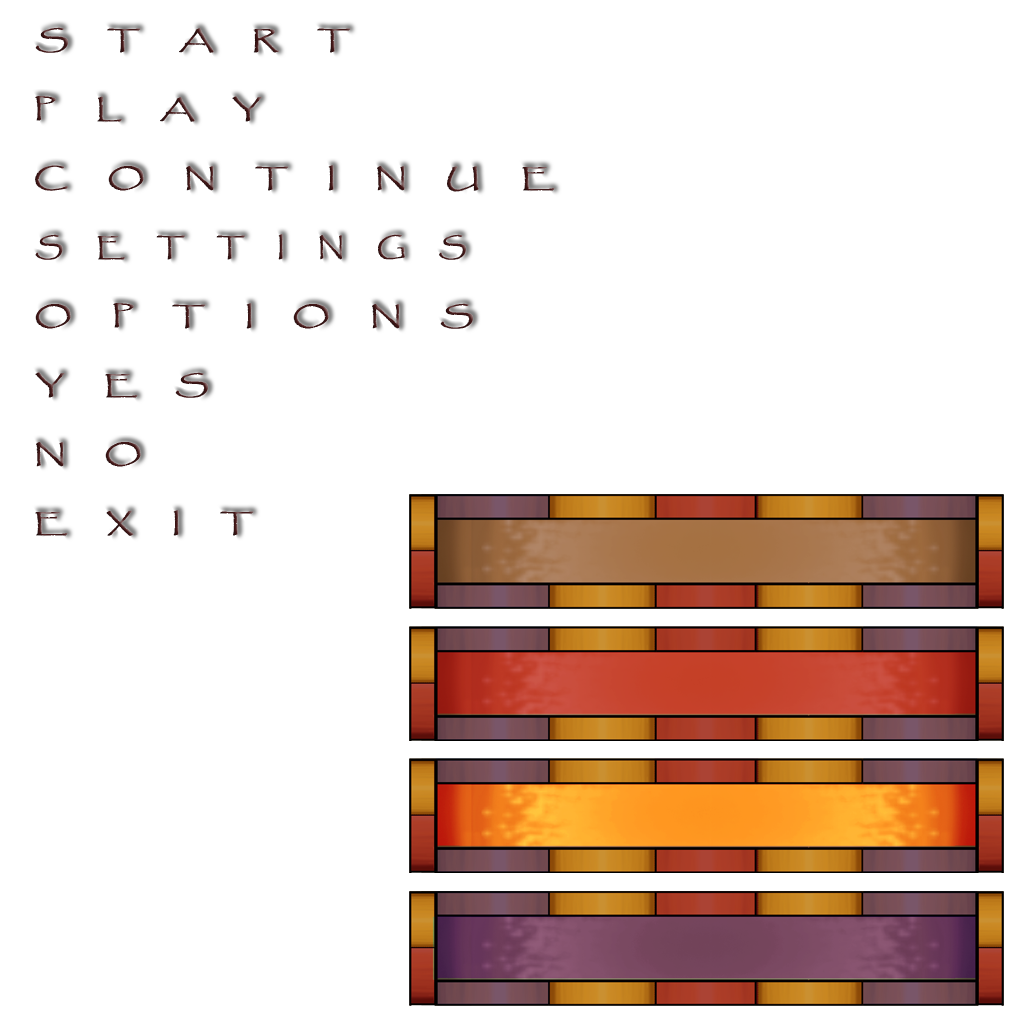
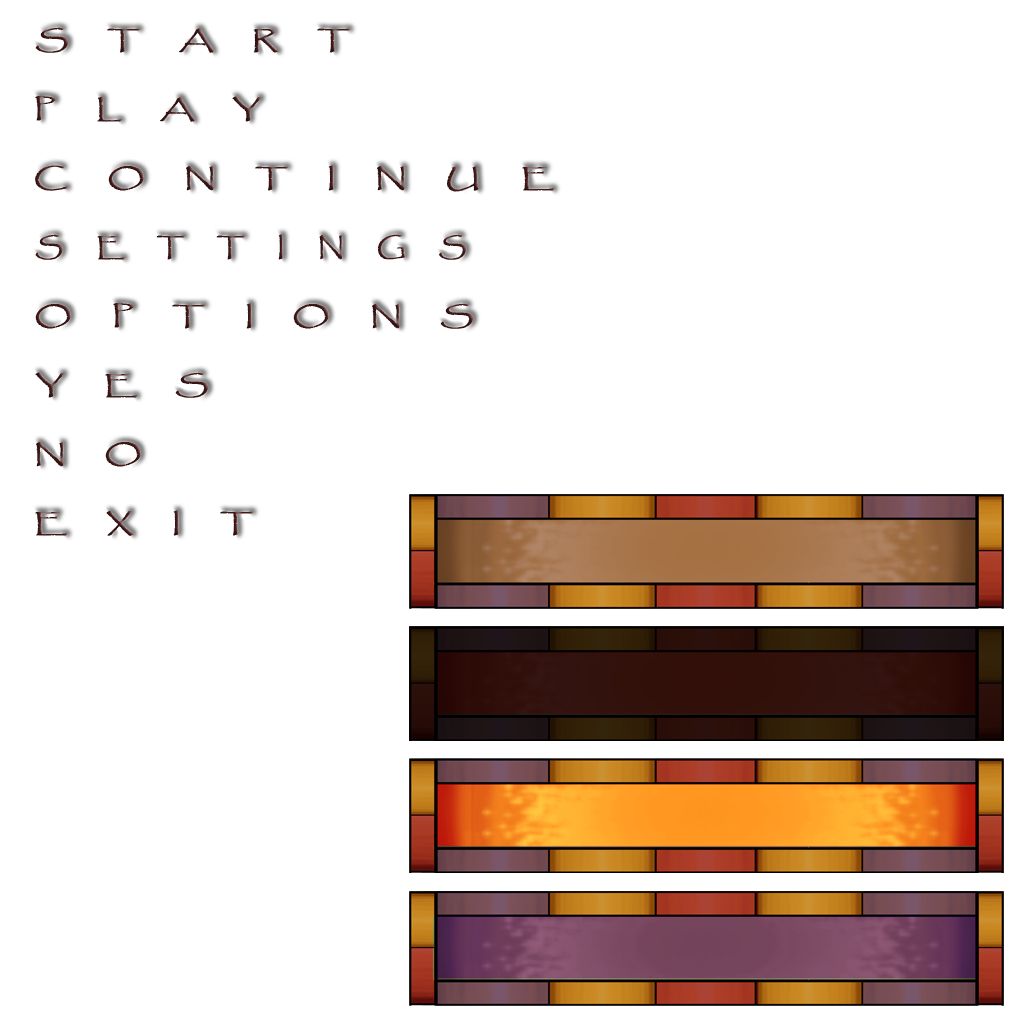
Main Menu - Continue only an option if save exists
Blanked out the continue button unless a save exists. Played through the
beginning of the game and fixed some nullrefs.

Changed region(s): [[0.375, 0.5938, 1.0, 0.75]]

diff --git a/Age of Anubis/Assets/Scripts/UI/UIButtons.cs b/Age of Anubis/Assets/Scripts/UI/UIButtons.cs
@@ -9,6 +9,7 @@ public class UIButtons : MonoBehaviour
 	List<GameObject> m_previousMenus;
 	public GameObject m_curMenu;
 
+	public UnityEngine.UI.Button continueButton;
 	public SaveManager m_saveManager;
 
 	void Awake()
@@ -19,6 +20,15 @@ public class UIButtons : MonoBehaviour
 			Destroy(this);
 
 		m_previousMenus = new List<GameObject>();
+	}
+
+	void Start()
+	{
+		//Disable continue if no savefile
+		if(!m_saveManager.saveExists)
+		{
+			continueButton.interactable = false;
+		}
 	}
 
 	void Update()
@@ -36,11 +46,13 @@ public class UIButtons : MonoBehaviour
 	{
 		m_saveManager.NewGame();
 		LoadingManager.Inst.LoadLevel("Tutorial", true);
+		gameObject.SetActive(false);
 	}
 
 	public void Continue()
 	{
 		LoadingManager.Inst.LoadLevel("ShopScene", true);
+		gameObject.SetActive(false);
 	}
 
 

diff --git a/Age of Anubis/Assets/Scripts/SavingLoading/SaveManager.cs b/Age of Anubis/Assets/Scripts/SavingLoading/SaveManager.cs
@@ -12,16 +12,13 @@ public class SaveManager : MonoBehaviour
 	public int m_exp;
 	public int m_gold;
 
+	public bool saveExists = false;
+
 	void Start()
 	{
 		if (File.Exists(Application.persistentDataPath + "Savegame.fiin"))
 		{
-			print("LOADING");
-			Load();
-		}
-		else
-		{
-			Save();
+			saveExists = true;
 			Load();
 		}
 	}
